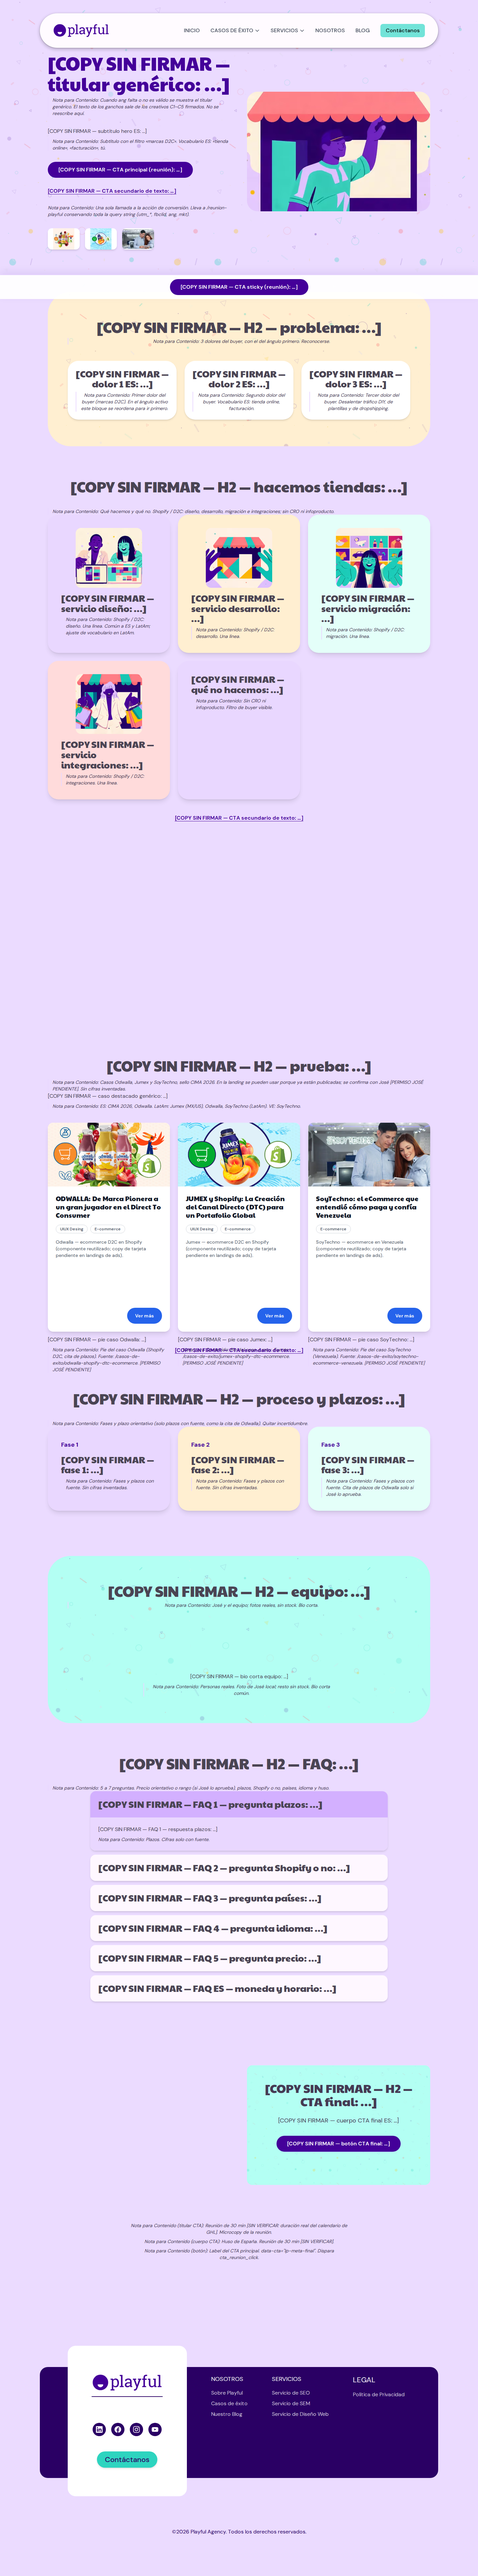
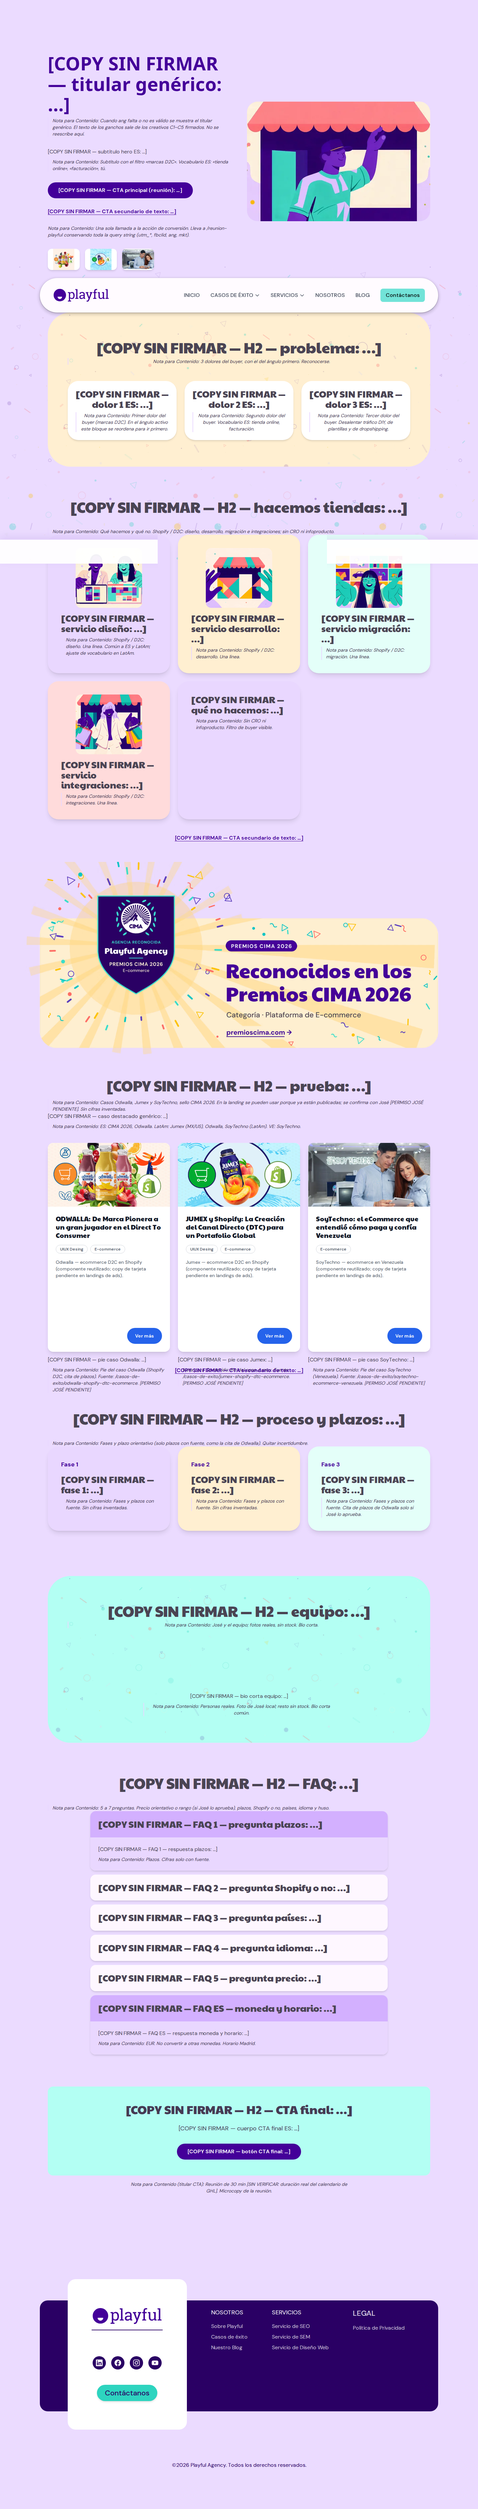
fix(lp): LCP del hero y QA de query local en agencia-shopify
Hero WebP 1x con fetchPriority y decode sync; H1 de la ruta con system-ui
para no esperar la webfont global. VariantBoot sin useSearchParams.
QA: sticky conserva la query en /reunion-playful/ir; el propagador en /
y /reunion-playful sigue igual que en la base.

diff --git a/app/lp/agencia-shopify/VariantBoot.tsx b/app/lp/agencia-shopify/VariantBoot.tsx
@@ -1,55 +1,64 @@
 'use client';
 
-import { useEffect } from 'react';
-import { useSearchParams } from 'next/navigation';
+import { useEffect, useState } from 'react';
 import { LP_META_PAIN_ORDER } from './copy';
 import { caseOrderForMarket, parseLpMetaAngle, parseLpMetaMarket } from './variants';
 import StickyCta from './StickyCta';
 
-/** Tiny island: apply mkt/ang from the query and mount the sticky CTA. */
+function applyVariant(search: string) {
+  const params = new URLSearchParams(search);
+  const mkt = parseLpMetaMarket(params.get('mkt'));
+  const ang = parseLpMetaAngle(params.get('ang'), params.get('utm_content'));
+  const root = document.querySelector<HTMLElement>('[data-lp-meta-shopify]');
+  if (!root) return { mkt, ang };
+
+  root.setAttribute('data-lp-mkt', mkt);
+  root.setAttribute('data-lp-ang', ang);
+
+  root.querySelectorAll<HTMLElement>('[data-lp-when-ang]').forEach((node) => {
+    node.hidden = node.getAttribute('data-lp-when-ang') !== ang;
+  });
+  root.querySelectorAll<HTMLElement>('[data-lp-when-mkt]').forEach((node) => {
+    const allow = (node.getAttribute('data-lp-when-mkt') || '').split(' ');
+    node.hidden = !allow.includes(mkt);
+  });
+
+  const painOrder = LP_META_PAIN_ORDER[ang];
+  root.querySelectorAll<HTMLElement>('[data-lp-pain-index]').forEach((node) => {
+    const index = Number(node.getAttribute('data-lp-pain-index'));
+    const position = painOrder.indexOf(index);
+    node.style.order = String(position < 0 ? index : position);
+    node.setAttribute('data-lp-pain-position', String(position < 0 ? index : position));
+  });
+
+  caseOrderForMarket(mkt).forEach((slug, index) => {
+    const node = root.querySelector<HTMLElement>(`[data-lp-case="${slug}"]`);
+    if (node) node.style.order = String(index);
+  });
+
+  root.querySelectorAll<HTMLAnchorElement>('[data-lp-meta-booking]').forEach((anchor) => {
+    const next = search ? `/reunion-playful/ir?${search}` : '/reunion-playful/ir';
+    if (anchor.getAttribute('href') !== next) anchor.setAttribute('href', next);
+  });
+  root.querySelectorAll<HTMLAnchorElement>('[data-lp-keep-search]').forEach((anchor) => {
+    const base = anchor.getAttribute('data-lp-keep-search') || anchor.getAttribute('href') || '';
+    const next = search ? `${base.split('?')[0]}?${search}` : base.split('?')[0];
+    if (anchor.getAttribute('href') !== next) anchor.setAttribute('href', next);
+  });
+  return { mkt, ang };
+}
+
+/** Tiny island: apply mkt/ang from the query after first paint and mount the sticky CTA. */
 export default function VariantBoot() {
-  const searchParams = useSearchParams();
-  const search = searchParams.toString();
-  const mkt = parseLpMetaMarket(searchParams.get('mkt'));
-  const ang = parseLpMetaAngle(searchParams.get('ang'), searchParams.get('utm_content'));
+  const [search, setSearch] = useState('');
 
   useEffect(() => {
-    const root = document.querySelector<HTMLElement>('[data-lp-meta-shopify]');
-    if (!root) return;
-    root.setAttribute('data-lp-mkt', mkt);
-    root.setAttribute('data-lp-ang', ang);
-
-    root.querySelectorAll<HTMLElement>('[data-lp-when-ang]').forEach((node) => {
-      node.hidden = node.getAttribute('data-lp-when-ang') !== ang;
-    });
-    root.querySelectorAll<HTMLElement>('[data-lp-when-mkt]').forEach((node) => {
-      const allow = (node.getAttribute('data-lp-when-mkt') || '').split(' ');
-      node.hidden = !allow.includes(mkt);
-    });
-
-    const painOrder = LP_META_PAIN_ORDER[ang];
-    root.querySelectorAll<HTMLElement>('[data-lp-pain-index]').forEach((node) => {
-      const index = Number(node.getAttribute('data-lp-pain-index'));
-      const position = painOrder.indexOf(index as 0 | 1 | 2);
-      node.style.order = String(position < 0 ? index : position);
-      node.setAttribute('data-lp-pain-position', String(position < 0 ? index : position));
-    });
-
-    caseOrderForMarket(mkt).forEach((slug, index) => {
-      const node = root.querySelector<HTMLElement>(`[data-lp-case="${slug}"]`);
-      if (node) node.style.order = String(index);
-    });
-
-    root.querySelectorAll<HTMLAnchorElement>('[data-lp-meta-booking]').forEach((anchor) => {
-      const next = search ? `/reunion-playful/ir?${search}` : '/reunion-playful/ir';
-      if (anchor.getAttribute('href') !== next) anchor.setAttribute('href', next);
-    });
-    root.querySelectorAll<HTMLAnchorElement>('[data-lp-keep-search]').forEach((anchor) => {
-      const base = anchor.getAttribute('data-lp-keep-search') || anchor.getAttribute('href') || '';
-      const next = search ? `${base.split('?')[0]}?${search}` : base.split('?')[0];
-      if (anchor.getAttribute('href') !== next) anchor.setAttribute('href', next);
-    });
-  }, [ang, mkt, search]);
+    const raw = window.location.search.startsWith('?')
+      ? window.location.search.slice(1)
+      : window.location.search;
+    setSearch(raw);
+    applyVariant(raw);
+  }, []);
 
   return <StickyCta search={search} />;
 }

diff --git a/app/lp/agencia-shopify/Landing.tsx b/app/lp/agencia-shopify/Landing.tsx
@@ -1,4 +1,3 @@
-import { Suspense } from 'react';
 import CimaBreaker from '@/components/premios-cima/CimaBreaker';
 import { getAllCaseStudies } from '@/services/wordpress';
 import { publicWebpIfPresent } from '@/lib/public-webp-src';
@@ -68,6 +67,11 @@ export default async function Landing() {
   return (
     <>
       <link rel="preload" as="image" href={HERO_LCP_1X} fetchPriority="high" />
+      <style>{`
+        [data-lp-meta-shopify] h1.playful-h1 {
+          font-family: system-ui, -apple-system, "Segoe UI", sans-serif;
+        }
+      `}</style>
       <article
         className="w-full pb-28"
         data-ads-warm-landing
@@ -84,7 +88,8 @@ export default async function Landing() {
                     <UnsignedBlock
                       block={LP_META_HERO_TITLES[ang]}
                       as="h1"
-                      className="playful-h1 text-[36px] leading-[42px] md:text-[45px] md:leading-[52px] lg:text-[56px] lg:leading-[1.1]"
+                      className="text-[36px] leading-[42px] font-semibold text-[#440099] md:text-[45px] md:leading-[52px] lg:text-[56px] lg:leading-[1.1]"
+                      style={{ fontFamily: 'system-ui, -apple-system, "Segoe UI", sans-serif' }}
                     />
                   </div>
                 ))}
@@ -364,9 +369,13 @@ export default async function Landing() {
           </div>
         </section>
       </article>
-      <Suspense fallback={null}>
-        <VariantBoot />
-      </Suspense>
+      <script
+        dangerouslySetInnerHTML={{
+          __html:
+            'document.addEventListener("click",function(e){var a=e.target&&e.target.closest&&e.target.closest("[data-lp-meta-booking]");if(!a||e.button||e.metaKey||e.ctrlKey||e.shiftKey||e.altKey)return;e.preventDefault();var q=location.search;location.assign(q?"/reunion-playful"+q:"/reunion-playful");},true);',
+        }}
+      />
+      <VariantBoot />
     </>
   );
 }

diff --git a/app/lp/agencia-shopify/StickyCta.tsx b/app/lp/agencia-shopify/StickyCta.tsx
@@ -2,8 +2,8 @@
 
 import { useEffect, useState } from 'react';
 import { unsignedLabel } from '../_lib/unsigned-copy';
+import { lpMetaBookingAnchorHref } from '../_lib/meta-booking-href';
 import { LP_META_CTA_STICKY } from './copy';
-import BookingCta from './BookingCta';
 
 const STICKY_CLASS =
   'inline-flex min-h-12 w-full items-center justify-center rounded-full bg-[#440099] px-8 py-3 text-center text-sm font-semibold text-white no-underline hover:bg-[#5B21B6] focus-visible:outline focus-visible:outline-4 focus-visible:outline-offset-4 focus-visible:outline-[#440099] md:w-auto md:text-base';
@@ -28,15 +28,22 @@ export default function StickyCta({ search = '' }: { search?: string }) {
 
   if (!visible) return null;
 
+  const q = search ? (search.startsWith('?') ? search : `?${search}`) : '';
+
   return (
     <div
       data-lp-meta-sticky
       className="fixed inset-x-0 bottom-0 z-40 border-t border-[#E9D7FF] bg-white/95 px-4 py-3 shadow-[0_-8px_24px_rgba(68,0,153,0.08)]"
     >
       <div className="mx-auto flex max-w-[1200px] items-center justify-center">
-        <BookingCta dataCta="lp-meta-sticky" className={STICKY_CLASS} search={search}>
+        <a
+          href={lpMetaBookingAnchorHref(q)}
+          data-cta="lp-meta-sticky"
+          data-lp-meta-booking="1"
+          className={STICKY_CLASS}
+        >
           {unsignedLabel(LP_META_CTA_STICKY.tag)}
-        </BookingCta>
+        </a>
       </div>
     </div>
   );

diff --git a/app/lp/agencia-shopify/BookingCta.tsx b/app/lp/agencia-shopify/BookingCta.tsx
@@ -1,7 +1,5 @@
-'use client';
-
-import type { MouseEvent, ReactNode } from 'react';
-import { lpMetaBookingAnchorHref, lpMetaBookingHrefFromSearch } from '../_lib/meta-booking-href';
+import type { ReactNode } from 'react';
+import { lpMetaBookingAnchorHref } from '../_lib/meta-booking-href';
 
 type BookingCtaProps = {
   dataCta: string;
@@ -10,21 +8,11 @@ type BookingCtaProps = {
   search?: string;
 };
 
-/** Route-local CTA. Visible href keeps the full query; hop path is not isBookingHref. */
+/** Server CTA. Visible hop href; click handled by the route-local script in Landing. */
 export default function BookingCta({ dataCta, className, children, search = '' }: BookingCtaProps) {
   const q = search ? (search.startsWith('?') ? search : `?${search}`) : '';
-  const href = lpMetaBookingAnchorHref(q);
-
-  const onClick = (event: MouseEvent<HTMLAnchorElement>) => {
-    if (event.button !== 0 || event.metaKey || event.ctrlKey || event.shiftKey || event.altKey) {
-      return;
-    }
-    event.preventDefault();
-    window.location.assign(lpMetaBookingHrefFromSearch(window.location.search || q));
-  };
-
   return (
-    <a href={href} data-cta={dataCta} data-lp-meta-booking="1" className={className} onClick={onClick}>
+    <a href={lpMetaBookingAnchorHref(q)} data-cta={dataCta} data-lp-meta-booking="1" className={className}>
       {children}
     </a>
   );

diff --git a/app/lp/agencia-shopify/HeroLcp.tsx b/app/lp/agencia-shopify/HeroLcp.tsx
@@ -1,22 +1,19 @@
 import { resolveImageAlt } from '@/lib/image-alt-overrides';
 
 export const HERO_LCP_1X = '/images/agencia-shopify/hero-gORwV7MSXO@1x.webp';
-export const HERO_LCP_2X = '/images/agencia-shopify/hero-gORwV7MSXO@2x.webp';
 export const HERO_LCP_PNG = '/images/agencia-shopify/hero-gORwV7MSXO@1x.png';
 
-/** Route-local LCP: sized WebP, priority, raw img so the route hydrates less. */
+/** Route-local LCP: single 1x WebP, fetchPriority high, no lazy, sync decode. */
 export default function HeroLcp() {
   return (
     <div data-illustration-slot="ads-hero" className="relative w-full overflow-hidden rounded-[32px]">
       <img
         src={HERO_LCP_1X}
-        srcSet={`${HERO_LCP_1X} 552w, ${HERO_LCP_2X} 1104w`}
-        sizes="(min-width: 1024px) 552px, calc(100vw - 2rem)"
         width={552}
         height={360}
         alt={resolveImageAlt(HERO_LCP_PNG)}
         fetchPriority="high"
-        decoding="async"
+        decoding="sync"
         className="h-auto w-full"
       />
     </div>

diff --git a/app/lp/_lib/unsigned-copy.tsx b/app/lp/_lib/unsigned-copy.tsx
@@ -1,4 +1,4 @@
-import type { ReactNode } from 'react';
+import type { CSSProperties, ReactNode } from 'react';
 import type { ContentPlaceholder } from './placeholders';
 
 export function unsignedLabel(tag: string): string {
@@ -10,16 +10,20 @@ export function UnsignedBlock({
   as = 'p',
   className = 'playful-contenido-p',
   extra,
+  style,
 }: {
   block: ContentPlaceholder;
   as?: 'p' | 'h1' | 'h2' | 'h3';
   className?: string;
   extra?: string;
+  style?: CSSProperties;
 }) {
   const Tag = as;
   return (
     <div className="space-y-2" data-copy-unsigned={block.tag}>
-      <Tag className={className}>{unsignedLabel(block.tag)}</Tag>
+      <Tag className={className} style={style}>
+        {unsignedLabel(block.tag)}
+      </Tag>
       <p className="text-sm text-[#453A53] italic border-l-2 border-[#E9D7FF] pl-3" data-content-note>
         Nota para Contenido: {block.note}
         {extra ? ` ${extra}` : ''}

diff --git a/app/lp/agencia-shopify/page.tsx b/app/lp/agencia-shopify/page.tsx
@@ -10,5 +10,10 @@ export const metadata: Metadata = {
 };
 
 export default function LpAgenciaShopifyPage() {
-  return <Landing />;
+  return (
+    <>
+      <style>{`[data-lp-meta-shopify] h1{font-family:system-ui,-apple-system,"Segoe UI",sans-serif!important}`}</style>
+      <Landing />
+    </>
+  );
 }
